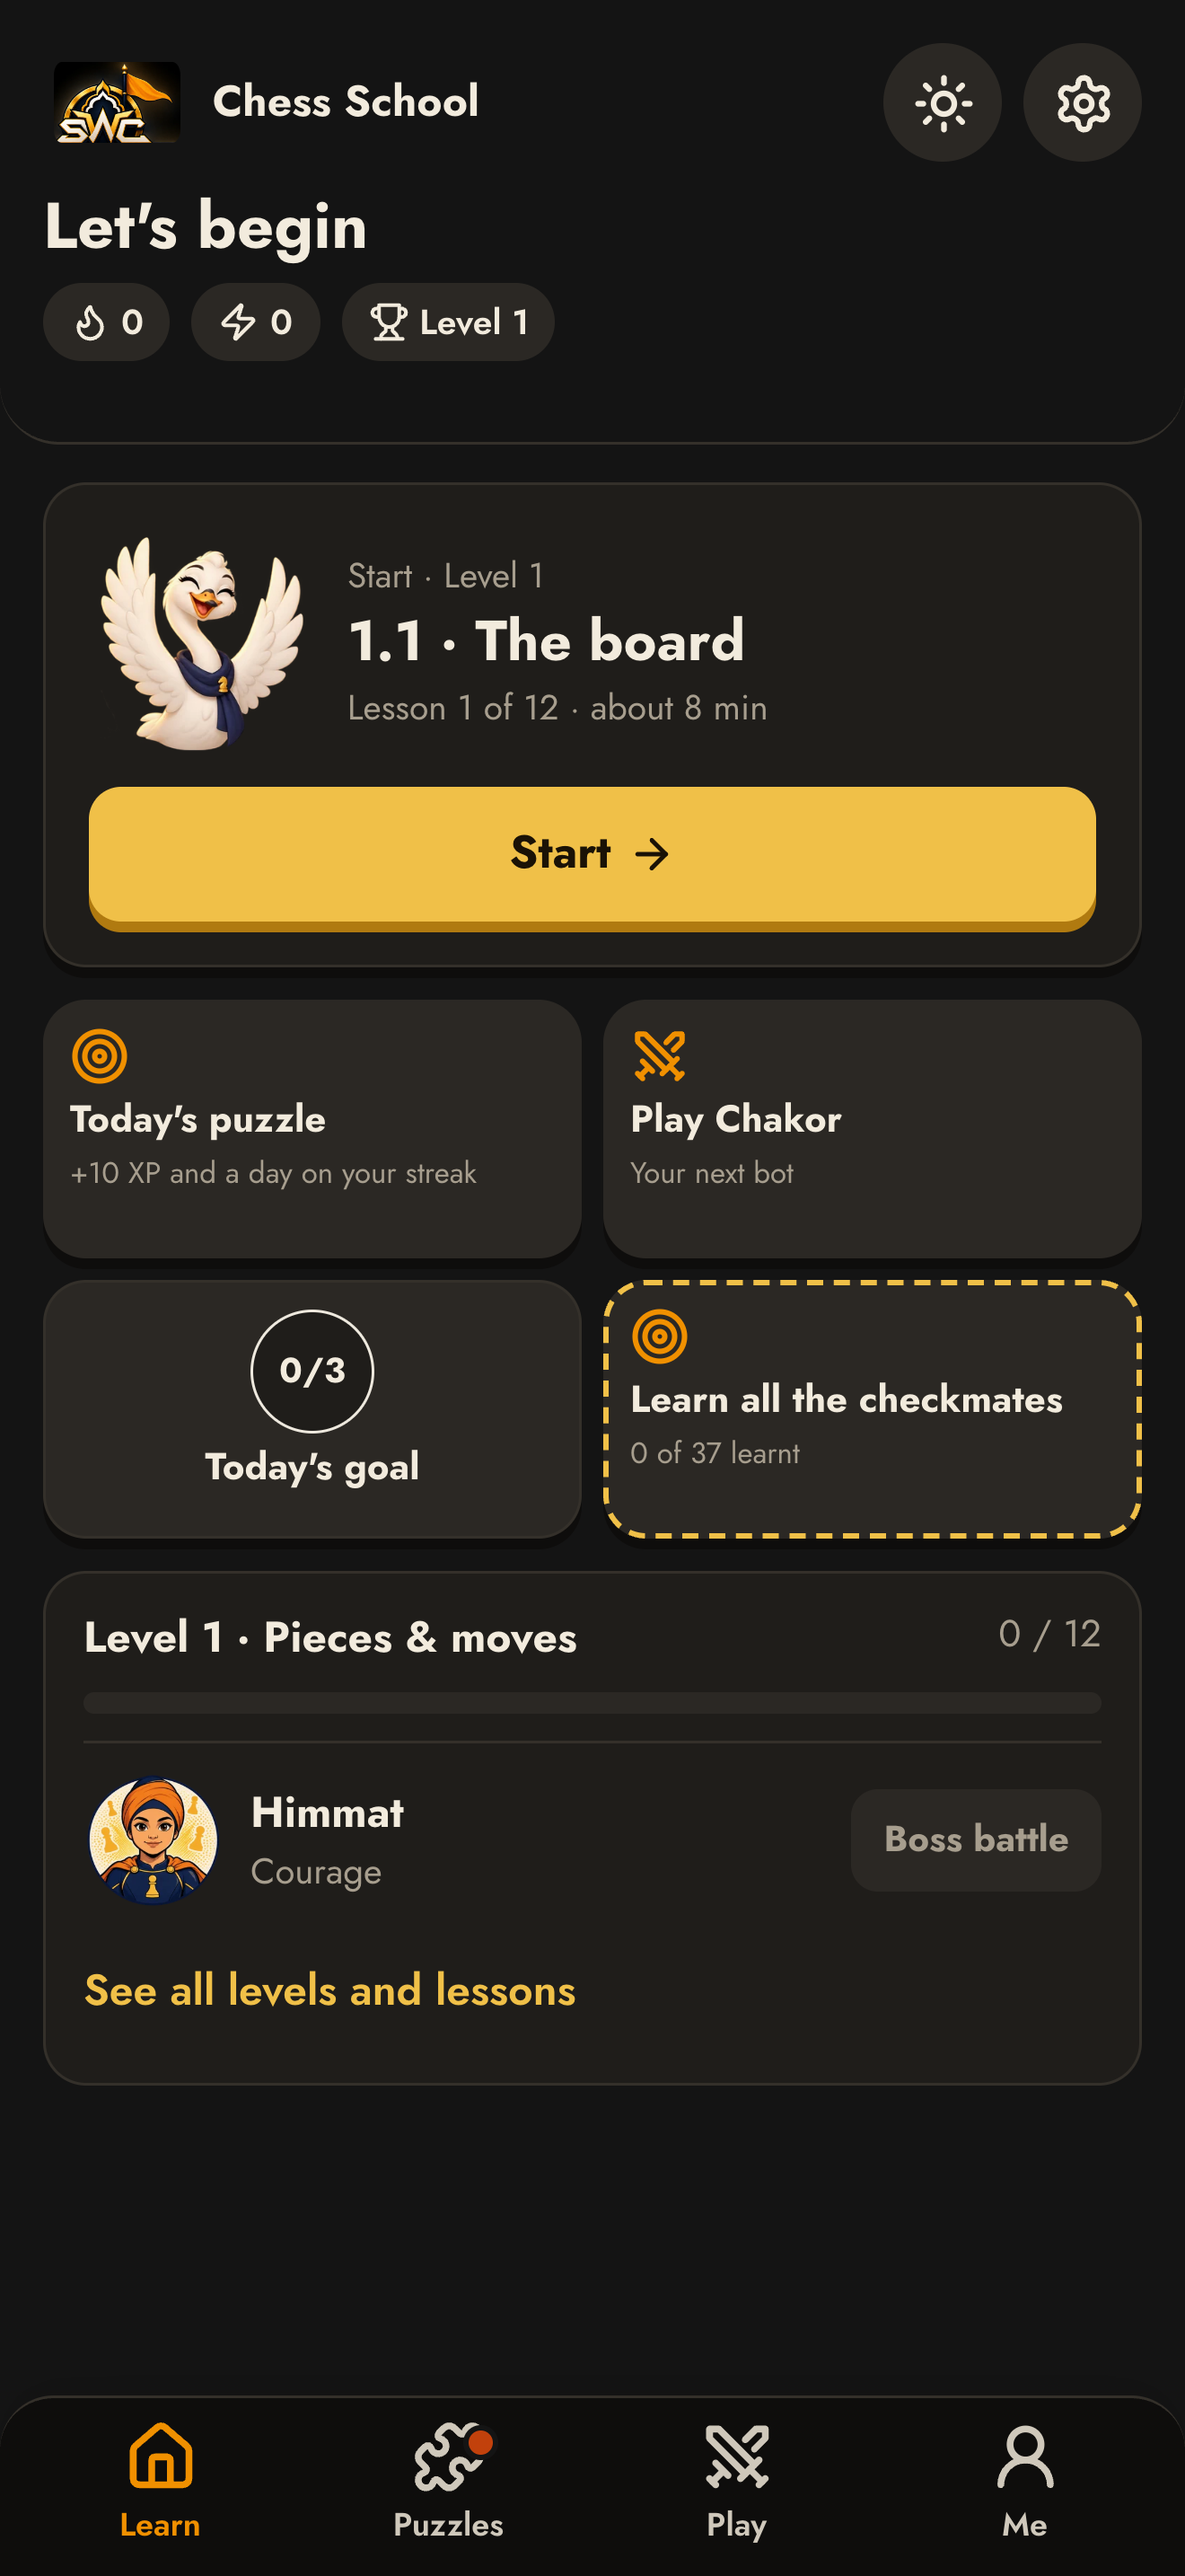
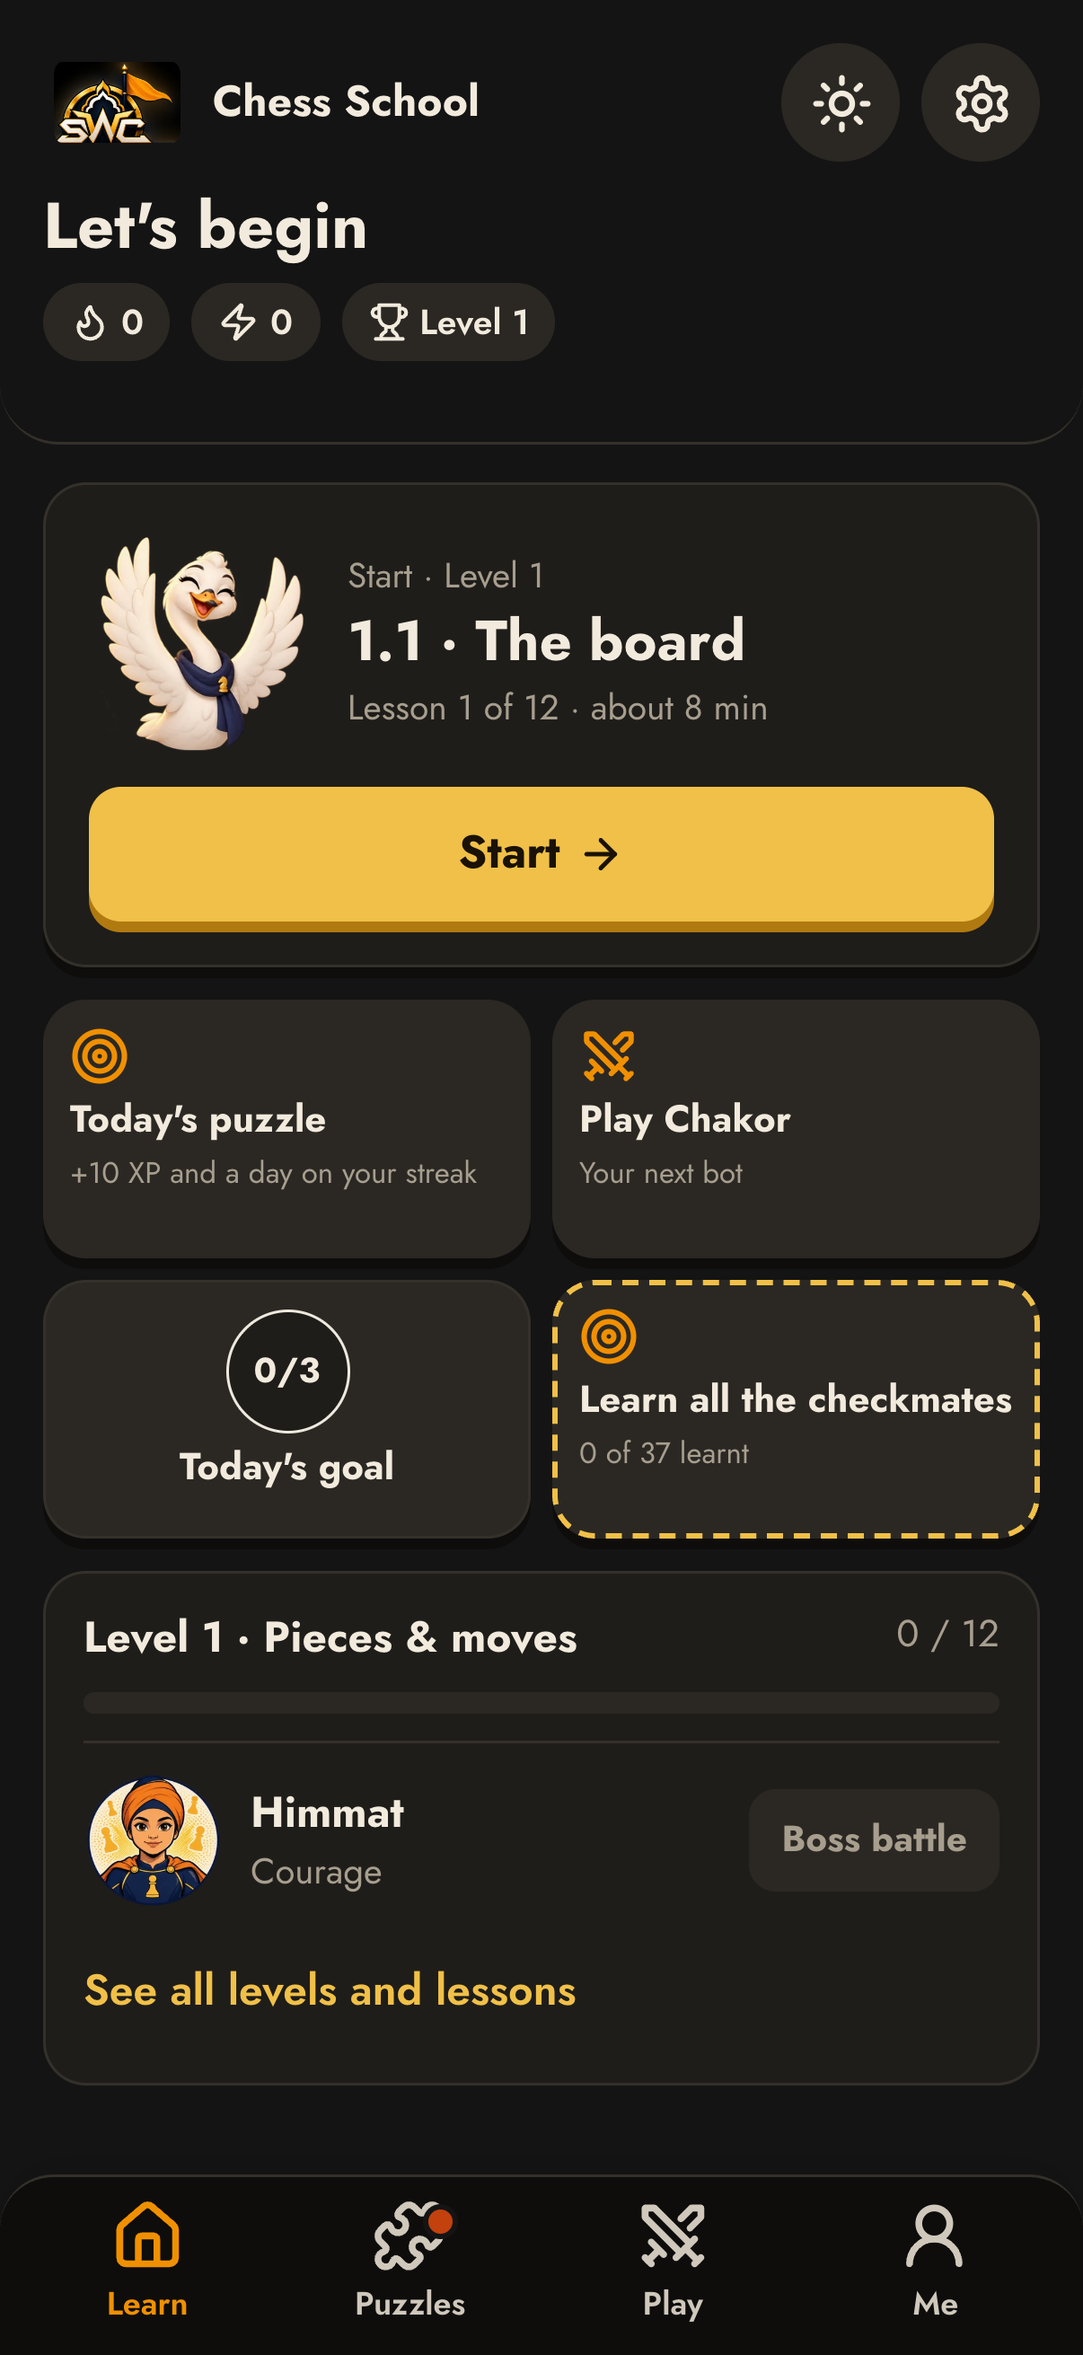
App Store: 1.2.0 submitted; screenshot sizes Apple now wants

diff --git a/native/APP_STORE.md b/native/APP_STORE.md
@@ -30,7 +30,7 @@ is accurate and keeps every feature. (Do not tick "Made for Kids".)
 
 ## Promotional text (170 max, can be changed any time without a new review)
 
-> Learn chess from the first move to tournament play: 93 lessons, 8 bots, a 34-opening course, puzzles and live kirtan from Sri Darbar Sahib. Free, no ads.
+> Learn chess from the first move to tournament play: 93 lessons, 37 checkmates, 8 bots, a 34-opening course, puzzles and live kirtan from Sri Darbar Sahib. Free, no ads.
 
 ## Description (4,000 max)
 
@@ -40,6 +40,7 @@ is accurate and keeps every feature. (Do not tick "Made for Kids".)
 >
 > • 93 lessons in 10 levels, from how the pieces move to tactics, endgames, openings and strategy
 > • An openings course of 34 openings, each taught in five steps: learn it, practise it, watch a model win, play the whole game to mate, then review
+> • Learn all the checkmates: 37 named mates, from the back-rank mate to famous traps, each one shown, built up move by move, played with help, then practised on real puzzles
 > • Three looks for three ages: big and friendly for 5–9, the full course for 10–15, clean and compact for adults
 > • A friendly coach explains every idea, and the superheroes of each level (Himmat, Seva, Ekta and more) cheer you on
 > • Eight bots to play, from a beginner up to about 2300 (strong club and master level), each with their own style, plus Play vs Coach
@@ -53,7 +54,7 @@ is accurate and keeps every feature. (Do not tick "Made for Kids".)
 > • An analysis board with a position editor, an openings trainer and a two-player mode on one phone
 > • Live kirtan from Sri Darbar Sahib (Harmandar Sahib), streamed through SikhNet Radio, to play quietly in the background while you learn (it needs an internet connection and can be paused or turned off in Settings)
 > • Dark and light looks, piece sets and boards to earn, and share your best games as a picture
-> • Play friends and classmates online: only four friendly messages, and no chat
+> • Play online: grown-ups get auto-match, ratings and play anyone; children play only friends their parent accepted and classmates, with four friendly messages and no chat
 >
 > No adverts, no tracking, and nothing sold or shared. Children appear to other players only as an animal and a
 > colour, and there is no chat. The code is open source (GPLv3).
@@ -79,7 +80,7 @@ English description instead:
 
 ## Graphics
 - **App icon:** built in (1024 × 1024, opaque, no rounded corners: iOS rounds it).
-- **Screenshots:** App Store Connect needs the **6.9-inch iPhone** set (1320 × 2868) and, for an iPad build, 13-inch iPad.
+- **Screenshots:** App Store Connect (Nov 2026) wants the **6.3-inch iPhone** set (1206 × 2622; 1320 × 2868 is refused) and the 13-inch iPad set (2064 × 2752). Both are in `store/ios/`.
   There is no Xcode on this Mac, so take them in Xcode's Simulator or on a real iPhone. The Android ones in `store/`
   are the wrong size and must not be reused as they are. Suggested five: home, a lesson, a bot game, Magical Chess, puzzles.
 
